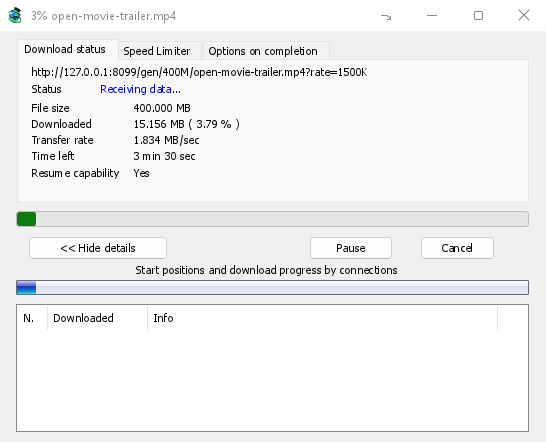
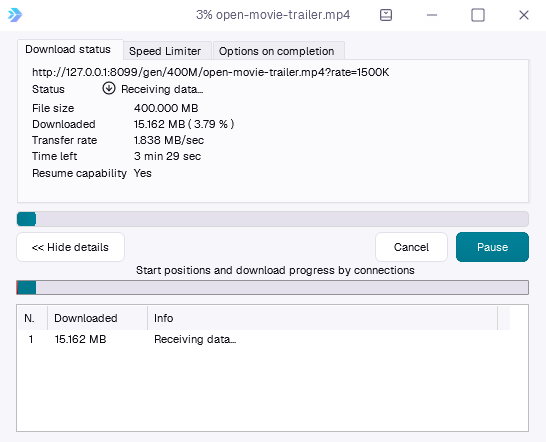
Graphite 09-finish: the screen pass: screen-reader names, the video picture, what is left
An automated keyboard and accessibility-tree pass at 100, 150 and 200 % (and Options at 200 %
on a 1080p monitor) found controls screen readers couldn't name: the drawn title bar's buttons
when Tab reaches them (exposed while focused, the system's title bar still speaking them
otherwise), the Connection, Remote, Accounts and Sites Logins lists, Speed Limiter's speed box;
and buttons named alike on every row (the extension offer's, Helpers'), now "<label> for
<browser or program>". The video's progress window is taken again in Graphite (README, two help
pages). baseline.ps1's main-details opens the details pane. What the 150 and 200 % pictures
still show is listed in the plan and ROADMAP. fmt, clippy and tests green.

diff --git a/crates/app/src/helpers.rs b/crates/app/src/helpers.rs
@@ -599,7 +599,20 @@ impl Programs {
             )[..] else {
                 unreachable!("two buttons")
             };
-            if winui::button(
+            // Every helper's buttons read the same: a screen reader hears which program they are for.
+            let spoken = |resp: &egui::Response, label: &str| {
+                let name = crate::i18n::fmt(
+                    // i18n: what a screen reader calls a button that one row of a window has for each thing it lists; {label} is the button's text, {what} the row's browser or program
+                    crate::i18n::t("{label} for {what}"),
+                    &[
+                        ("label", crate::i18n::t(label)),
+                        ("what", &crate::i18n::ltr(h.name())),
+                    ],
+                );
+                resp.ctx
+                    .accesskit_node_builder(resp.id, |n| n.set_label(name));
+            };
+            let other = winui::button(
                 ui,
                 r(o, other_at.0, y - o.y + 46.0, other_at.1, 21.0),
                 // i18n: Video helpers: button: pick a program (yt-dlp or ffmpeg) already on the computer
@@ -611,9 +624,9 @@ impl Programs {
                 },
                 false,
                 None,
-            )
-            .clicked()
-            {
+            );
+            spoken(&other, "Use another program...");
+            if other.clicked() {
                 // i18n: file picker title; {name} = yt-dlp or ffmpeg
                 let title =
                     crate::i18n::fmt(crate::i18n::t("Choose {name}"), &[("name", h.name())]);
@@ -621,7 +634,7 @@ impl Programs {
                     rfd::FileDialog::new().set_title(title).pick_file()
                 });
             }
-            if winui::button(
+            let own = winui::button(
                 ui,
                 r(o, own_at.0, y - o.y + 46.0, own_at.1, 21.0),
                 // i18n: Video helpers: button: go back to the copy MDM downloads and checks itself
@@ -633,8 +646,9 @@ impl Programs {
                 },
                 false,
                 None,
-            )
-            .clicked()
+            );
+            spoken(&own, "Use MDM's own copy");
+            if own.clicked()
                 && let Some(dir) = self.dir.clone()
             {
                 self.error = mdm_tools::chosen::forget(&dir, h)

diff --git a/crates/app/src/options.rs b/crates/app/src/options.rs
@@ -1286,6 +1286,8 @@ impl OptionsDialog {
             92.0,
         )[0];
         let list_end = col_x - 8.0;
+        // i18n: what a screen reader calls the list of servers with their own number of connections (Options → Connection)
+        self.exc_rows.name = crate::i18n::t("Exceptions");
         let (dbl, del_key) = report(
             ui,
             o,
@@ -1762,6 +1764,8 @@ impl OptionsDialog {
         let bx = PAGE_RIGHT - bw;
         let list_right = bx - gap;
         let list_bottom = PAGE_TOP + 4.0 * h + 3.0 * gap;
+        // i18n: what a screen reader calls the list of debrid service accounts (Options → Accounts)
+        self.account_rows.name = crate::i18n::t("Debrid service accounts");
         let (_, del_key) = report(
             ui,
             o,
@@ -1909,6 +1913,8 @@ impl OptionsDialog {
             })
             .collect();
         // The list leaves the page's foot to Cookies for video sites (#229).
+        // i18n: what a screen reader calls the list of sites and their logins (Options → Sites Logins)
+        self.login_rows.name = crate::i18n::t("Sites and their logins");
         let (dbl, del_key) = report(
             ui,
             o,
@@ -2807,6 +2813,8 @@ impl OptionsDialog {
             .iter()
             .map(|d| vec![d.name.clone(), when(d.added), when(d.seen)])
             .collect();
+        // i18n: what a screen reader calls the list of phones and computers paired with MDM (Options → Remote)
+        self.device_rows.name = crate::i18n::t("Paired devices");
         let (_, del_key) = report(
             ui,
             o,

diff --git a/crates/app/src/dialogs.rs b/crates/app/src/dialogs.rs
@@ -2050,7 +2050,7 @@ impl SpeedSettings {
                         winui::text(p, x, baseline, s, black);
                     },
                 );
-                winui::number_field(
+                let kb = winui::number_field(
                     ui,
                     kb_box[0],
                     &mut self.kb,
@@ -2059,6 +2059,11 @@ impl SpeedSettings {
                     true,
                     winui::LIGHT_BG(),
                 );
+                // Inside its sentence, so no caption names it: named here for screen readers.
+                // i18n: what a screen reader calls the Speed Limiter's box for one file's speed
+                let name = crate::i18n::t("Maximum download speed for one file");
+                ui.ctx()
+                    .accesskit_node_builder(kb.id, |n| n.set_label(name));
                 let note = crate::i18n::t(
                     "Note: Internet servers may break connection when the speed is too limited! Thus it's not\nrecommended to use Speed Limiter to download from servers that do not support\n\"resume\" feature.",
                 );

diff --git a/crates/app/src/extension.rs b/crates/app/src/extension.rs
@@ -201,6 +201,22 @@ impl Extension {
                 false,
                 None,
             );
+            // Every row's button reads the same: a screen reader hears which browser it is for.
+            let browser = if name.is_empty() {
+                crate::i18n::t("Your browser")
+            } else {
+                name.as_str()
+            };
+            let spoken = crate::i18n::fmt(
+                // i18n: what a screen reader calls a button that one row of a window has for each thing it lists; {label} is the button's text, {what} the row's browser or program
+                crate::i18n::t("{label} for {what}"),
+                &[
+                    ("label", crate::i18n::t(label)),
+                    ("what", &crate::i18n::ltr(browser)),
+                ],
+            );
+            ui.ctx()
+                .accesskit_node_builder(add.id, |n| n.set_label(spoken));
             if add.clicked() {
                 // No store page: the tutorial on the website, in the interface language.
                 let url = page

diff --git a/crates/app/src/winui.rs b/crates/app/src/winui.rs
@@ -6758,7 +6758,9 @@ pub mod caption {
         };
         let resp = ui.interact(rc, widget_id(ui, ("caption-button", b.name())), sense);
         let name = crate::i18n::t(b.name());
-        if b == CaptionButton::ToTray || !SYSTEM_SPEAKS {
+        // Tab reaches it too (plan 09's keyboard pass): while it has the keys it is ours to
+        // speak, or a screen reader would say nothing there.
+        if b == CaptionButton::ToTray || !SYSTEM_SPEAKS || resp.has_focus() {
             expose(&resp, egui::Role::Button, name, enabled, None);
         } else {
             unspoken(ui, &resp);

diff --git a/CHANGELOG.md b/CHANGELOG.md
@@ -26,6 +26,7 @@ Each release's notes on GitHub come from its section here (`## [X.Y.Z]`, see
 - So do **Remote**, **Proxy / Socks**, **Sites Logins**, **Accounts**, **Sounds**, **Regional** and **Archives**: Remote's state (and its address) in a banner, blue when it's on and red when it can't listen, Accounts' experimental note in a yellow banner, and Sites Logins' "From browser:" no longer cut short at large interface sizes.
 - **Graphite**'s filled buttons (the default answer in a dialog's footer) now shade from a lighter cyan at the top, and the progress bars from cyan to a lighter cyan along the fill; in dark mode both glow softly. Theme files can ask for it with `[controls]` `button = "graphite"` and `progress = "graphite"`.
 - **About** draws the app's mark sharp at every interface size (it was blurred at 150 % and 200 %), and the offers of the browser extension and of the video helpers lose the logo band at their top: their headline sits on the window, as in the rest of Graphite.
+- Screen readers: the drawn title bar's Minimize, Maximize and Close are named when Tab reaches them (they said nothing); the lists on Options' Connection, Remote, Accounts and Sites Logins pages and Speed Limiter's speed box have names; and the buttons repeated on each row of the browser extension's offer and of Helpers say which browser or program they are for.
 - In a download's progress window, **Hide tab** sits at the top right of the Speed Limiter and Options on completion pages, at the height of the other buttons; a finished torrent that is still shared says so on its **General** tab, in a banner with the rate it sends and to how many peers.
 - The **Scheduler** is wider (800 points) and shorter: the weekdays sit in two rows, "Hang up modem when done" and "Exit Mister Download Manager when done" side by side, the file to open after its caption on the same row, and the list of a queue's files gives its names more room, so the whole window fits a 1080p screen at interface size 200 % without scrolling. Its controls, their order and keys are unchanged.
 - **Options** fits a 1080p screen at a 200 % interface size: the window is shorter there, its page scrolling between the list of pages and the footer, which stay in view (at 100 % it is as before). Screen readers read its list of pages as a list, and Remote's and Accounts' banners as a status; a banner's longer title wraps instead of being cut. **Pair a device** centres its column as the rest of Graphite draws it, and both Pair a device's and **Add an account**'s codes can be read by screen readers; Add an account's waiting note is no longer cut off when it takes three lines.

diff --git a/ROADMAP.md b/ROADMAP.md
@@ -599,14 +599,14 @@ These ship in a later version, when they're ready.
   details pane: a long file name without spaces on the pane's two lines, and the screenshot
   script's details pane keeping the list's column filters.
   And the help's, the README's and the website's pictures taken again in Graphite, its tile on
-  the Themes page with its picture (still to take again: the video's progress window, in the
-  README and two help pages, which needs yt-dlp; and File Properties' type line, which names
-  the shooting computer's own video player).
-  Left for a person at the screen (plan 09's follow-ups): the on-screen keyboard and Narrator
-  passes over the paste bar, the details pane and their toggles, the moved Hide tab, the
-  torrent window's banner, Options' side list, banners and codes; the windows compared side by
-  side with the mockup at 150 % and 200 %, Options' scrolling page on a real 1080p screen at
-  200 %; the rest of the main window against the mock.
+  the Themes page with its picture, and a keyboard and screen-reader pass at 100, 150 and
+  200 % (Options at 200 % on a 1080p screen included): the title bar's buttons, four Options
+  lists, Speed Limiter's box and the offers' repeated buttons named for screen readers.
+  Left (plan 09's follow-ups): at 150 and 200 %, toolbar labels cut with the details pane open
+  and the pane's last row under its buttons, the progress window's connection ticks at 150 %,
+  the Scheduler's tab padding and a checkbox 2 px off, a faint square behind About's and
+  Helpers' icons in light mode, Create folder's path cut at its end, Add an account's "Find
+  my token" out of line; Narrator itself, by a person (its accessibility tree is checked).
 - 🔄 The rename to Grabbit, after the new look: the name in the app, installer, extension, website
   and docs, with settings, saved logins, autostart, the `.torrent` link and the browser extension
   carried over on upgrade. Planned (`design/graphite/plans/10-rename-grabbit.md`); groundwork done:

diff --git a/design/graphite/plans/09-polish-and-default.md b/design/graphite/plans/09-polish-and-default.md
@@ -273,3 +273,22 @@ Line numbers drift as phases land: find each item by its name first.
   `vfp-progress` made from it), which needs yt-dlp, and File Properties' type line naming this PC's video
   player, for a run on a stock Windows)
 - [x] Done within the 3½-hour box, or what's left listed under its part's ROADMAP item (over the box; what is left is listed)
+
+## Left after 09 (the screen pass, 2026-11-15)
+
+An automated keyboard and accessibility-tree pass (each changed window on the screen, Tab through
+it, Shift+Tab, Escape; its UI Automation tree's names, roles, enabled states and bounds) at 100,
+150 and 200 %, and Options at 200 % on the 1920 x 1080 monitor: every Tab order cycles, Escape
+closes each dialog, the progress window's Escape leaves its download running, and Options at
+200 % is 837 x 496 with its page scrolling and every stop reached. What it found unnamed or named
+twice is fixed (branch `ui/09-finish`). Its 150 and 200 % pictures, reviewed, left these to fix:
+
+- the main window with the details pane open: toolbar labels cut ("Add Torr…", "Delete Co…",
+  "Start Que…", "Stop Que…"), and at 200 % the pane's last row under its buttons;
+- the progress window at 150 %: the connection bar shows its first tick only;
+- the Scheduler: the Schedule tab's label without side padding, Stop download at's check box 2 px
+  right of the others, the retries box a little high at 200 %;
+- About's and Helpers' icons at 150 and 200 %, light: a faint square behind them;
+- Create folder: the path cut at its end (the folder made is the part hidden);
+- Add an account: "Find my token" out of line with the left column;
+- Narrator itself, by a person at the screen.
